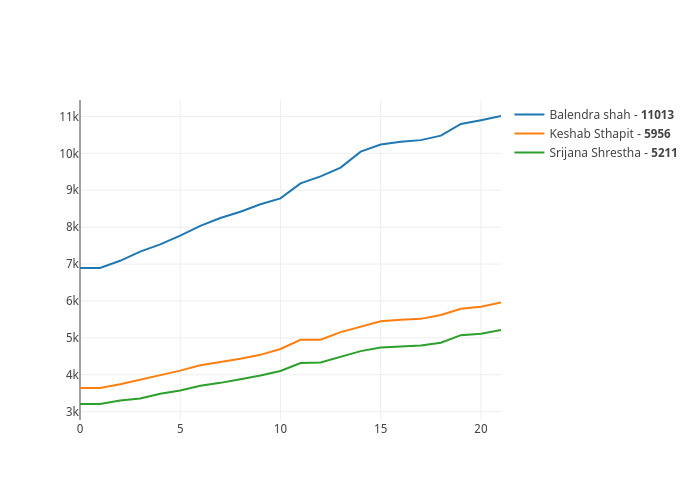
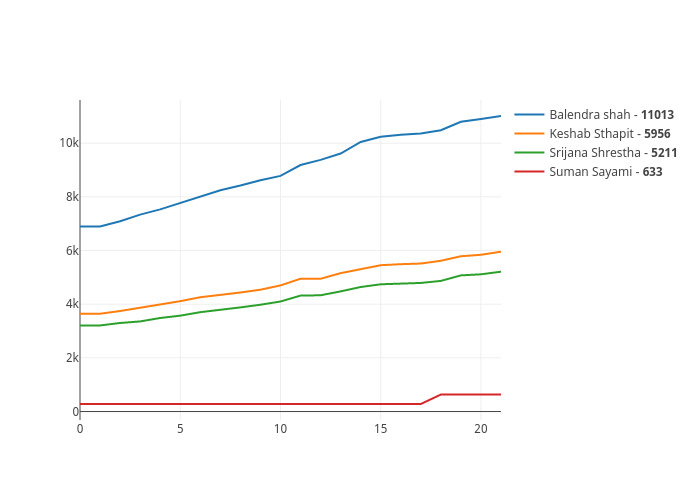
added Suman Sayami

diff --git a/public/index.js b/public/index.js
@@ -1,6 +1,7 @@
 var Balendatas = [];
 var Kesabdatas = [];
 var Srijanadatas = [];
+var Sumandatas = [];
 var img_jpg = document.getElementById('jpg-export')
 
 
@@ -17,6 +18,7 @@ const getData = async () => {
         Balendatas.push(e.data[0].votes)
         Kesabdatas.push(e.data[1].votes)
         Srijanadatas.push(e.data[2].votes)
+        Sumandatas.push(e.data[4].votes)
     })
             
 }
@@ -45,8 +47,10 @@ const fillMaps = async () => {
         name: `Srijana Shrestha - <b>${Srijanadatas[Srijanadatas.length - 1]}</b>`,
         // text : Srijanadatas[Srijanadatas.length - 1]
     }
-
-
+    var SumanSayami = {
+        y : Sumandatas,
+        name : `Suman Sayami - <b>${Sumandatas[Sumandatas.length - 1]}</b>`
+    }
     var layout = {
 
         title: 'Vote counts of major mayoral candidates in KTM.',
@@ -64,7 +68,7 @@ const fillMaps = async () => {
     };
 
     document.getElementById('gd').innerHTML = ''
-    await Plotly.newPlot("gd", [BalendraShah, KesabSthapit, SrijanaShrestha])
+    await Plotly.newPlot("gd", [BalendraShah, KesabSthapit, SrijanaShrestha, SumanSayami])
 
     await Plotly.toImage("gd", { format: "jpeg", height: 500, width: 700 }).then((url) => {
         const options = {
